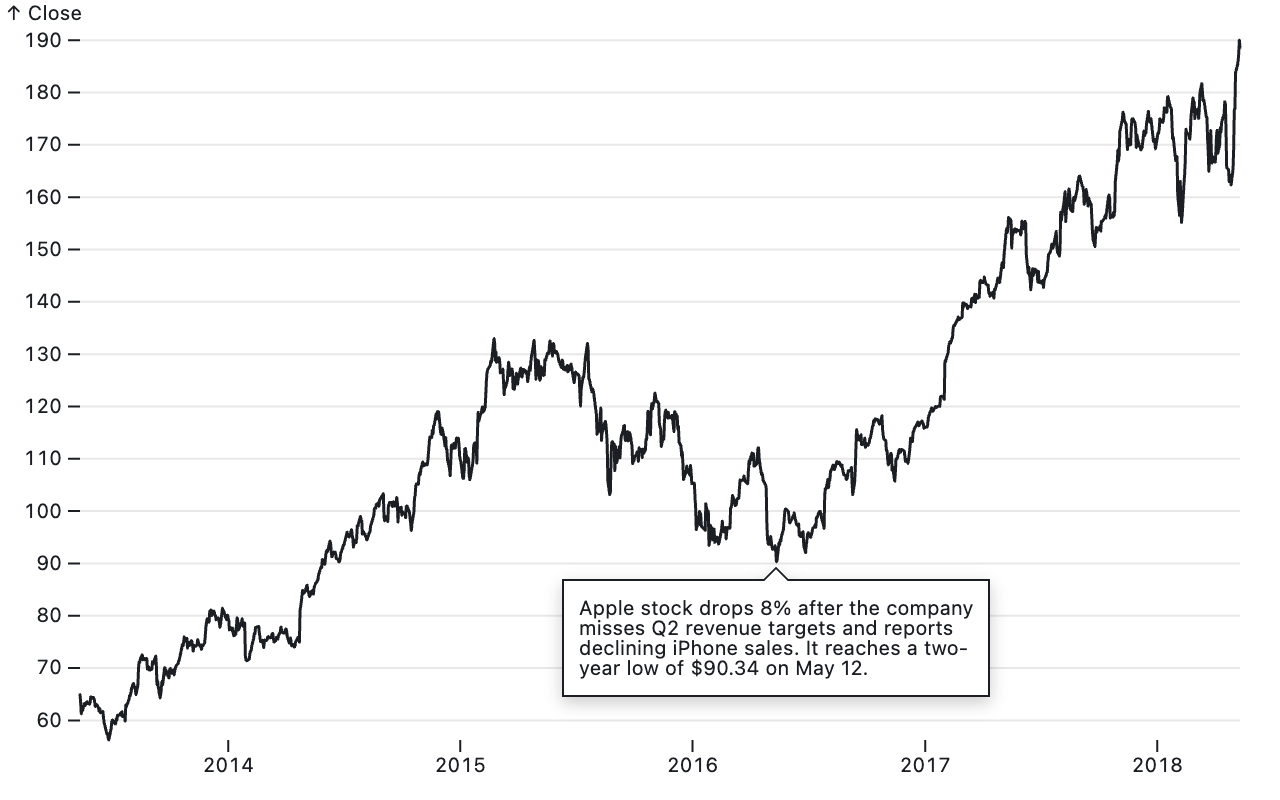
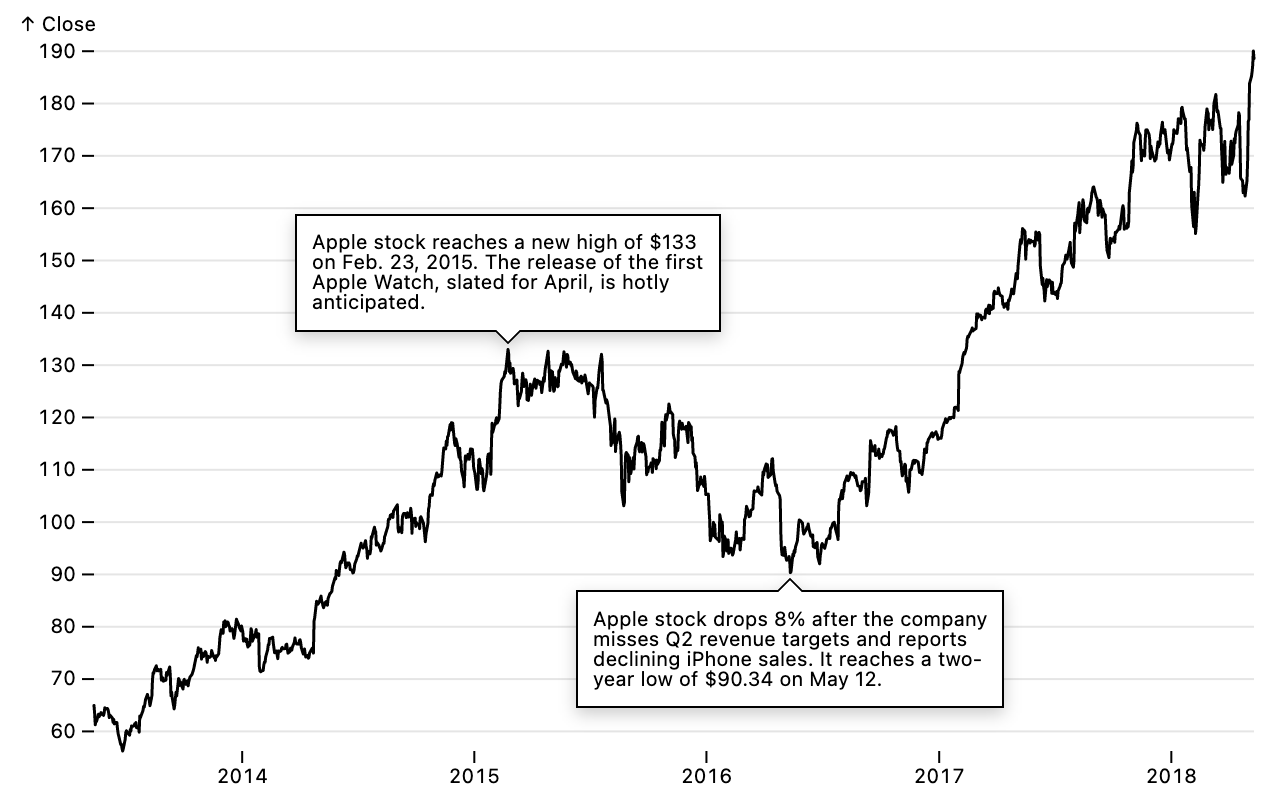
revert pointer scale changes; CHANGELOG

diff --git a/src/marks/crosshair.d.ts b/src/marks/crosshair.d.ts
@@ -18,9 +18,8 @@ export interface CrosshairOptions extends MarkOptions {
   /**
    * The maximum radius in pixels to determine whether to render the crosshair
    * for closest point; if no point is within this radius to the pointer, the
-   * crosshair will be hidden. Defaults to 40 pixels. (For crosshairX and
-   * crosshairY, this refers to scaled distance; the actual distance may be 10×
-   * this amount.)
+   * crosshair will be hidden. Defaults to 40 pixels. On crosshairX and
+   * crosshairY, only the *x* and *y* distance is considered, respectively.
    */
   maxRadius?: number;
 

diff --git a/src/interactions/pointer.d.ts b/src/interactions/pointer.d.ts
@@ -6,8 +6,8 @@ export interface PointerOptions {
   /**
    * The maximum radius in pixels to determine whether to render the closest
    * point; if no point is within this radius to the pointer, nothing will be
-   * rendered. Defaults to 40 pixels. (For pointerX and pointerY, this refers to
-   * scaled distance; the actual distance may be 10× this amount.)
+   * rendered. Defaults to 40 pixels. On pointerX and pointerY, only the *x* and
+   * *y* distance is considered, respectively.
    */
   maxRadius?: number;
 

diff --git a/src/interactions/pointer.js b/src/interactions/pointer.js
@@ -166,11 +166,11 @@ export function pointer(options) {
 }
 
 export function pointerX(options) {
-  return pointerK(10, 0.1, options);
+  return pointerK(1, 0.01, options);
 }
 
 export function pointerY(options) {
-  return pointerK(0.1, 10, options);
+  return pointerK(0.01, 1, options);
 }
 
 export function anchorX({x1: X1, x2: X2, x: X = X1}, cx) {

diff --git a/CHANGELOG.md b/CHANGELOG.md
@@ -1,12 +1,31 @@
 # Observable Plot - Changelog
 
-Year: **2023** · [2022](./CHANGELOG-2022.md) · [2021](./CHANGELOG-2021.md)
+Year: **Current (2023)** · [2022](./CHANGELOG-2022.md) · [2021](./CHANGELOG-2021.md)
 
 ## 0.6.7
 
 *Not yet released. These are forthcoming changes in the main branch.*
 
-The new [tip mark](https://observablehq.com/plot/marks/tip) renders annotations in a floating box anchored to a given position in **x** and **y**. Like the text mark, it supports soft-wrapping and multi-line text, and can be used to draw attention to points of interest and add commentary.
+The new [tip mark](https://observablehq.com/plot/marks/tip) displays text, or a name-value pair for each channel, in a floating box anchored to a given position in **x** and **y**. The tip mark is often paired with the new [pointer interaction](https://observablehq.com/plot/interactions/pointer) such that only the point closest to the pointer is rendered, allowing the tip mark to reveal details interactively by hovering the chart.
+
+<img src="./img/tip-line.webp" width="640" alt="A line chart of Apple stock price from 2013 to 2018, with an annotation on May 12, 2016, showing the two-year low closing price of $90.34.">
+
+```js
+Plot.lineY(aapl, {x: "Date", y: "Close", tip: true}).plot()
+```
+
+The new **tip** mark option adds an implicit tip mark with pointer interaction derived from the current mark. The line chart above can be written more explicitly as:
+
+```js
+Plot.plot({
+  marks: [
+    Plot.lineY(aapl, {x: "Date", y: "Close"}),
+    Plot.tip(aapl, Plot.pointerX({x: "Date", y: "Close"}))
+  ]
+})
+```
+
+The tip mark can be also used to draw attention to points of interest and add commentary. When used with the **title** channel, the tip mark supports text wrapping and multi-line text.
 
 <img src="./img/tip-title.png" width="640" alt="A line chart of Apple stock price from 2013 to 2018, with an annotation describing the decline from 2015 through mid-2016, followed by a recovery.">
 
@@ -16,6 +35,10 @@ Plot.plot({
   marks: [
     Plot.lineY(aapl, {x: "Date", y: "Close"}),
     Plot.tip(
+      [`Apple stock reaches a new high of $133 on Feb. 23, 2015. The release of the first Apple Watch, slated for April, is hotly anticipated.`],
+      {x: new Date("2015-02-23"), y: 133, dy: -3, anchor: "bottom"}
+    ),
+    Plot.tip(
       [`Apple stock drops 8% after the company misses Q2 revenue targets and reports declining iPhone sales. It reaches a two-year low of $90.34 on May 12.`],
       {x: new Date("2016-05-12"), y: 90.34, dy: 3, anchor: "top"}
     )
@@ -23,39 +46,26 @@ Plot.plot({
 })
 ```
 
-If the **title** channel is omitted, the tip mark automatically shows the name and value of all channels.
+The pointer interaction can be paired with any mark, not just a tip: a red dot, say, to emphasize the focused point, or a rule to highlight its *x* or *y* position. You can independently control the target position from the display using the **px** and **py** channels, say to show the currently-focused point’s value in the top-left corner of the chart with a text mark.
 
-<img src="./img/tip.png" width="640" alt="A line chart of Apple stock price from 2013 to 2018, with an annotation on May 12, 2016, showing the two-year low closing price of $90.34.">
+<img src="./img/pointer-text.webp" width="640" alt="A line chart of Apple stock price from 2013 to 2018; as the pointer moves over the chart, the date and close are shown in the top-left corner, while a red rule and dot highlights the focused point.">
 
 ```js
 Plot.plot({
-  y: {grid: true},
+  height: 160,
+  y: {axis: "right", grid: true, nice: true},
   marks: [
     Plot.lineY(aapl, {x: "Date", y: "Close"}),
-    Plot.tip({length: 1}, {x: new Date("2016-05-12"), y: 90.34, dy: 3, anchor: "top"})
+    Plot.ruleX(aapl, Plot.pointerX({x: "Date", py: "Close", stroke: "red"})),
+    Plot.dot(aapl, Plot.pointerX({x: "Date", y: "Close", stroke: "red"})),
+    Plot.text(aapl, Plot.pointerX({px: "Date", py: "Close", dy: -17, frameAnchor: "top-left", fontVariant: "tabular-nums", text: (d) => [`Date ${Plot.formatIsoDate(d.Date)}`, `Close ${d.Close.toFixed(2)}`].join("   ")}))
   ]
 })
 ```
 
-The tip mark is often paired with the new [pointer interaction](https://observablehq.com/plot/interactions/pointer), which dynamically filters a mark such that only the instance closest to the pointer is rendered. This allows the tip mark to reveal more information about the datum closest to the pointer, say when hovering a scatterplot or line chart.
-
-The pointer interaction can also be paired with any mark: a red dot, say, to emphasize the focused point, or a rule to highlight its *x* or *y* position. You can also independently control the target position from the display, say to show the currently-focused point’s value in the top-left corner of the chart with a text mark.
-
-[TODO Example of a text mark driven by the pointer interaction.]
-
 The pointer interaction supports “click-to-stick”: if you click on the chart, the currently-focused point will remain focused until you click again. By temporarily locking the focused point, you can select text from the tip for copy and paste.
 
-The new **tip** mark option adds an implicit tip mark with pointer interaction derived from the current mark.
-
-[TODO Animated tip + pointer example]
-
-```js
-Plot.lineY(aapl, {x: "Date", y: "Close", tip: true}).plot({y: {grid: true}})
-```
-
-When the **tip** option is truthy, the **title** channel is no longer applied using an SVG title element; it is instead rendered via the tip mark. The auto mark sets the **tip** option to true by default.
-
-The pointer interaction also powers the new crosshair mark, which provides an alternative strategy for showing the *x* (horizontal↔ position) and *y* (vertical↕ position) of the closest point to the pointer.
+The pointer interaction also powers the new [crosshair mark](https://observablehq.com/plot/interactions/crosshair) which shows the *x* (horizontal↔ position) and *y* (vertical↕ position) value of the point closest to the pointer on the bottom and left sides of the frame, respectively.
 
 <img src="./img/crosshair.png" width="640" alt="A line chart of Apple stock price from 2013 to 2018, with a crosshair centered over May 12, 2016, showing a closing price of $90.34.">
 
@@ -64,52 +74,70 @@ Plot.plot({
   marginLeft: 50,
   marks: [
     Plot.lineY(aapl, {x: "Date", y: "Close"}),
-    Plot.crosshair(aapl, {x: "Date", y: "Close"}) // TODO crosshairX
+    Plot.crosshairX(aapl, {x: "Date", y: "Close"})
   ]
 })
 ```
 
-The new **labelArrow** axis mark option and implicit arrow behavior for axis labels.
+In addition to these exciting new interaction features, Plot 0.6.7 includes a variety of improvements and bug fixes.
 
-Ordinal scales are now smarter about choosing a default time format when the **interval** option is a yearly interval: the four-digit year is (YYYY) shown instead of year, month, and day (YYYY-01-01).
+The **sort** mark option now supports *-channel* descending shorthand for [imputed scales domains](https://observablehq.com/plot/features/scales#sort-mark-option) and the [sort transform](https://observablehq.com/plot/transforms/sort). For example, sorting *x* by *-y* orders a bar chart by descending value:
 
-Color scales now default to a *categorical* scale when a categorical color scheme is specified. (This avoids an “unknown quantitative scheme” error.)
+<img src="./img/bar-sort.png" width="640" alt="A bar chart showing English letters by descending frequency, starting with E (12.7%), T (9.1%), down to Z (0.7%).">
 
-Time intervals can now be specified as integer multiples of a base time interval, such as *3 months* or *10 years*.
+```js
+Plot.barY(alphabet, {x: "letter", y: "frequency", sort: {x: "-y"}}).plot()
+```
 
-The new **imageFilter** mark option.
+This is equivalent to:
 
-The new **render** transform mark option.
+```js
+Plot.barY(alphabet, {x: "letter", y: "frequency", sort: {x: "y", order: "descending"}}).plot()
+```
 
-Mark transforms are now passed the plot’s *options* as a third argument. This allows the group, bin, and stack transforms (and other transforms) to check if the scale has a declared **interval** option, and if so, apply that interval before grouping.
+The **sort** option for imputed channel domains now also takes an **order** option which can be *ascending*, *descending*, a custom comparator, or null. (This more closely matches the **order** option for the sort transform.) The **reverse** option now reverses the order rather than using descending natural order, placing nulls first instead of last.
 
-The autoSpec method now returns the name of the explicit mark and transform implementations as **markImpl** and **transformImpl** respectively, along with the **markOptions** and **transformOptions** needed to instantiate them.
+Previously setting the scale **label** option would disable Plot’s automatic directional arrow in axis labels (↑, →, ↓, or ←); now Plot implicitly adds an arrow to the label you provide, unless the label already has a arrow or you set the **labelArrow** option to null or false. You can also force an arrow by setting this option to true, or *up*, *right*, *down*, or *bottom*. In Plot’s code base, we were able to remove 161 Unicode arrows thanks to this change!
 
-The normalize and window transforms now accept two-argument “index-aware” reducers. The map transform now accepts a two-argument index-aware map method, too.
+Color scales now default to a *categorical* scale when a categorical color scheme is specified. For example, this no longer throws a “unknown quantitative scheme” error:
+
+<img src="./img/cell-categorical.png" width="640" alt="A row of 10 rectangular swatches showing the Tableau10 color scheme.">
+
+```js
+Plot.cellX(d3.range(10)).plot({color: {scheme: "Tableau10"}})
+```
+
+Ordinal scales are now smarter about choosing a default time format when the **interval** option is a yearly interval: the four-digit year is (YYYY) shown instead of year, month, and day (YYYY-01-01). Time intervals can now be specified as integer multiples of a base time interval, such as *3 months* or *10 years*.
+
+Mark transforms are now passed the plot’s *options* as a third argument; this allows the group, bin, and stack transforms (and other transforms) to check if the scale has a declared **interval** option, and if so, apply that interval before grouping. For example, to count athletes by age at 5-year intervals:
+
+<img src="./img/group-interval.png" width="640" alt="A bar chart showing the frequency of athletes by age, grouped at 5-year intervals; the chart peaks at 1990 with more than 4,500 athletes, following a skewed bell curve.">
+
+```js
+Plot.barY(olympians, Plot.groupX({y: "count"}, {x: "date_of_birth"})).plot({x: {interval: "5 years"}})
+```
+
+The new **imageFilter** mark option applies a [CSS filter effect](https://developer.mozilla.org/en-US/docs/Web/CSS/filter) to the mark, such as a drop shadow or blur. The [rule](https://observablehq.com/plot/marks/rule) and [tick](https://observablehq.com/plot/marks/tick) marks now support **marker** options.
+
+The normalize and window transforms now accept two-argument “index-aware” reducers; the map transform now also accepts a two-argument index-aware map method. The mapX transform now defaults **x** to identity if none of **x**, **x1**, and **x2** are specified; the mapY transform does the same for **y**.
+
+When faceting, the plot dimensions now includes **facet**.**width** and **facet**.**height** for the plot’s outer dimensions. The plot context now includes the ownerSVGElement.
 
 Fix a bug where the *opacity* channel didn’t automatically opt-out of the *opacity* scale when all values are in the interval [0,1].
 
-Fix a bug where the frame mark would crash if a channel-eligible option such as **fill** were specified as an invalid CSS color string, such as *bluez*. The frame mark now supports channel-eligible options to be specified as abstract values, in which case the abstract values will be encoded using a scale; for example, setting **fill** to *Biscoe* would apply an *ordinal* *color* scale.
-
-Fix a bug when filtering facets and computing facet anchors with non-primitive facet domains, such as dates.
+Fix a bug where the frame mark would crash if a channel-eligible option such as **fill** were specified as an invalid CSS color string, such as *bleu*. The frame mark now supports channel-eligible options to be specified as abstract values, in which case the abstract values will be encoded using a scale; for example, setting **fill** to *Biscoe* would apply an *ordinal* *color* scale.
 
 Fix a bug where the position defaults for the rectX, rectY, barX, and barY marks were only applied if the *options* object was strictly undefined; now the position defaults apply if the relevant position options are undefined.
 
-Fix *z*-order across facets. Fix *z*-order of facet axes, which should be drawn below rather than above other marks, as with other axes.
+Fix a bug when filtering facets and computing facet anchors with non-primitive facet domains, such as dates. Fix *z*-order across facets: each mark now draws atop all earlier marks across facets. Fix *z*-order of facet axes, which should be drawn below rather than above other marks, as other axes do.
 
-Fix the auto mark to chose the rect mark instead of rectX or rectY when appropriate, and likewise choose correctly between line, lineX, and lineY, and areaX and areaY.
+Fix the auto mark to chose the rect mark instead of rectX or rectY when appropriate, and likewise choose correctly between line, lineX, and lineY, and areaX and areaY. Also, the autoSpec method now returns the name of the explicit mark and transform implementations as **markImpl** and **transformImpl** respectively, along with the **markOptions** and **transformOptions** needed to instantiate them.
 
-The mapX transform now defaults **x** to identity if none of **x**, **x1**, and **x2** are specified; the mapY transform does the same for **y**.
+<!-- The text mark now positions multi-line text using the *dy* attribute instead of the *y* attribute. -->
 
-TODO Change to maybeOptionalZero when **x** is strictly null?
+<!-- The new **render** transform mark option. -->
 
-The plot context now exposes the ownerSVGElement.
-
-The text mark now positions multi-line text using the *dy* attribute instead of the *y* attribute.
-
-When faceting, the plot dimensions now includes **facet**.**width** and **facet**.**height** for the plot’s outer dimensions.
-
-Derived channels can now declare **source** and **hint** options which are used by the tip mark.
+<!-- Derived channels can now declare **source** and **hint** options which are used by the tip mark. -->
 
 ## 0.6.6
 

diff --git a/docs/features/marks.md b/docs/features/marks.md
@@ -490,7 +490,7 @@ All marks support the following style options:
 
 If the **clip** option is *frame* (or equivalently true), the mark is clipped to the frame’s dimensions; if the **clip** option is null (or equivalently false), the mark is not clipped. If the **clip** option is *sphere*, then a [geographic projection](./projections.md) is required and the mark will be clipped to the projected sphere (_e.g._, the front hemisphere when using the orthographic projection).
 
-If the **tip** option is true, a [tip mark](../marks/tip.md) with the [pointer transform](../interactions/pointer.md) will be derived from this mark and placed atop all other marks, offering details on demand. If the **tip** option is set to *x*, *y*, or *xy*, [pointerX](../interactions/pointer.md#pointerx-options), [pointerY](../interactions/pointer.md#pointery-options), or [pointer](../interactions/pointer.md#pointer-options) will be used, respectively; otherwise the pointing mode will be chosen automatically.
+If the **tip** option is true, a [tip mark](../marks/tip.md) with the [pointer transform](../interactions/pointer.md) will be derived from this mark and placed atop all other marks, offering details on demand. If the **tip** option is set to *x*, *y*, or *xy*, [pointerX](../interactions/pointer.md#pointerx-options), [pointerY](../interactions/pointer.md#pointery-options), or [pointer](../interactions/pointer.md#pointer-options) will be used, respectively; otherwise the pointing mode will be chosen automatically. (If the **tip** mark option is truthy, the **title** channel is no longer applied using an SVG title element as this would conflict with the tip mark.)
 
 For all marks except [text](../marks/text.md), the **dx** and **dy** options are rendered as a transform property, possibly including a 0.5px offset on low-density screens.
 

diff --git a/docs/marks/tip.md b/docs/marks/tip.md
@@ -24,7 +24,7 @@ onMounted(() => {
 
 # Tip mark
 
-The **tip mark** displays text, or several name-value pairs, in a floating box anchored for a given position in **x** and **y**. The tip mark is often paired with the [pointer transform](../interactions/pointer.md) to reveal details on demand when hovering over a chart, as in this line chart of Apple stock price:
+The **tip mark** displays text, or several name-value pairs, in a floating box anchored to a given position in **x** and **y**. The tip mark is often paired with the [pointer transform](../interactions/pointer.md) to reveal details on demand when hovering over a chart, as in this line chart of Apple stock price:
 
 :::plot defer
 ```js
@@ -103,7 +103,7 @@ Plot.rectY(olympians, Plot.binX({y: "sum"}, {x: "weight", y: (d) => d.sex === "m
 ```
 :::
 
-The tip mark does not provide options for formatting channel names or values. When a channel is bound to a scale, the scale’s label is shown instead of the channel name. If you are interested in this feature, please upvote [#1612](https://github.com/observablehq/plot/issues/1612).
+The tip mark does not provide options for formatting channel names or values. When a channel is bound to a scale, the scale’s label is shown instead of the channel name. If you desire greater customization, please upvote [#1612](https://github.com/observablehq/plot/issues/1612).
 
 The tip mark supports nine different orientations specified by the **anchor** option: the four sides (*top*, *right*, *bottom*, *left*), the four corners (*top-left*, *top-right*, *bottom-right*, *bottom-left*), and *middle*. Note that when *middle* is used, the tip will obscure its anchor point.
 

diff --git a/CHANGELOG-2021.md b/CHANGELOG-2021.md
@@ -1,6 +1,6 @@
 # Observable Plot - Changelog [2021]
 
-Year: [2023](./CHANGELOG.md) · [2022](./CHANGELOG-2022.md) · **2021**
+Year: [Current (2023)](./CHANGELOG.md) · [2022](./CHANGELOG-2022.md) · **2021**
 
 ## 0.3.2
 

diff --git a/CHANGELOG-2022.md b/CHANGELOG-2022.md
@@ -1,6 +1,6 @@
 # Observable Plot - Changelog [2022]
 
-Year: [2023](./CHANGELOG.md) · **2022** · [2021](./CHANGELOG-2021.md)
+Year: [Current (2023)](./CHANGELOG.md) · **2022** · [2021](./CHANGELOG-2021.md)
 
 ## 0.6.1
 
